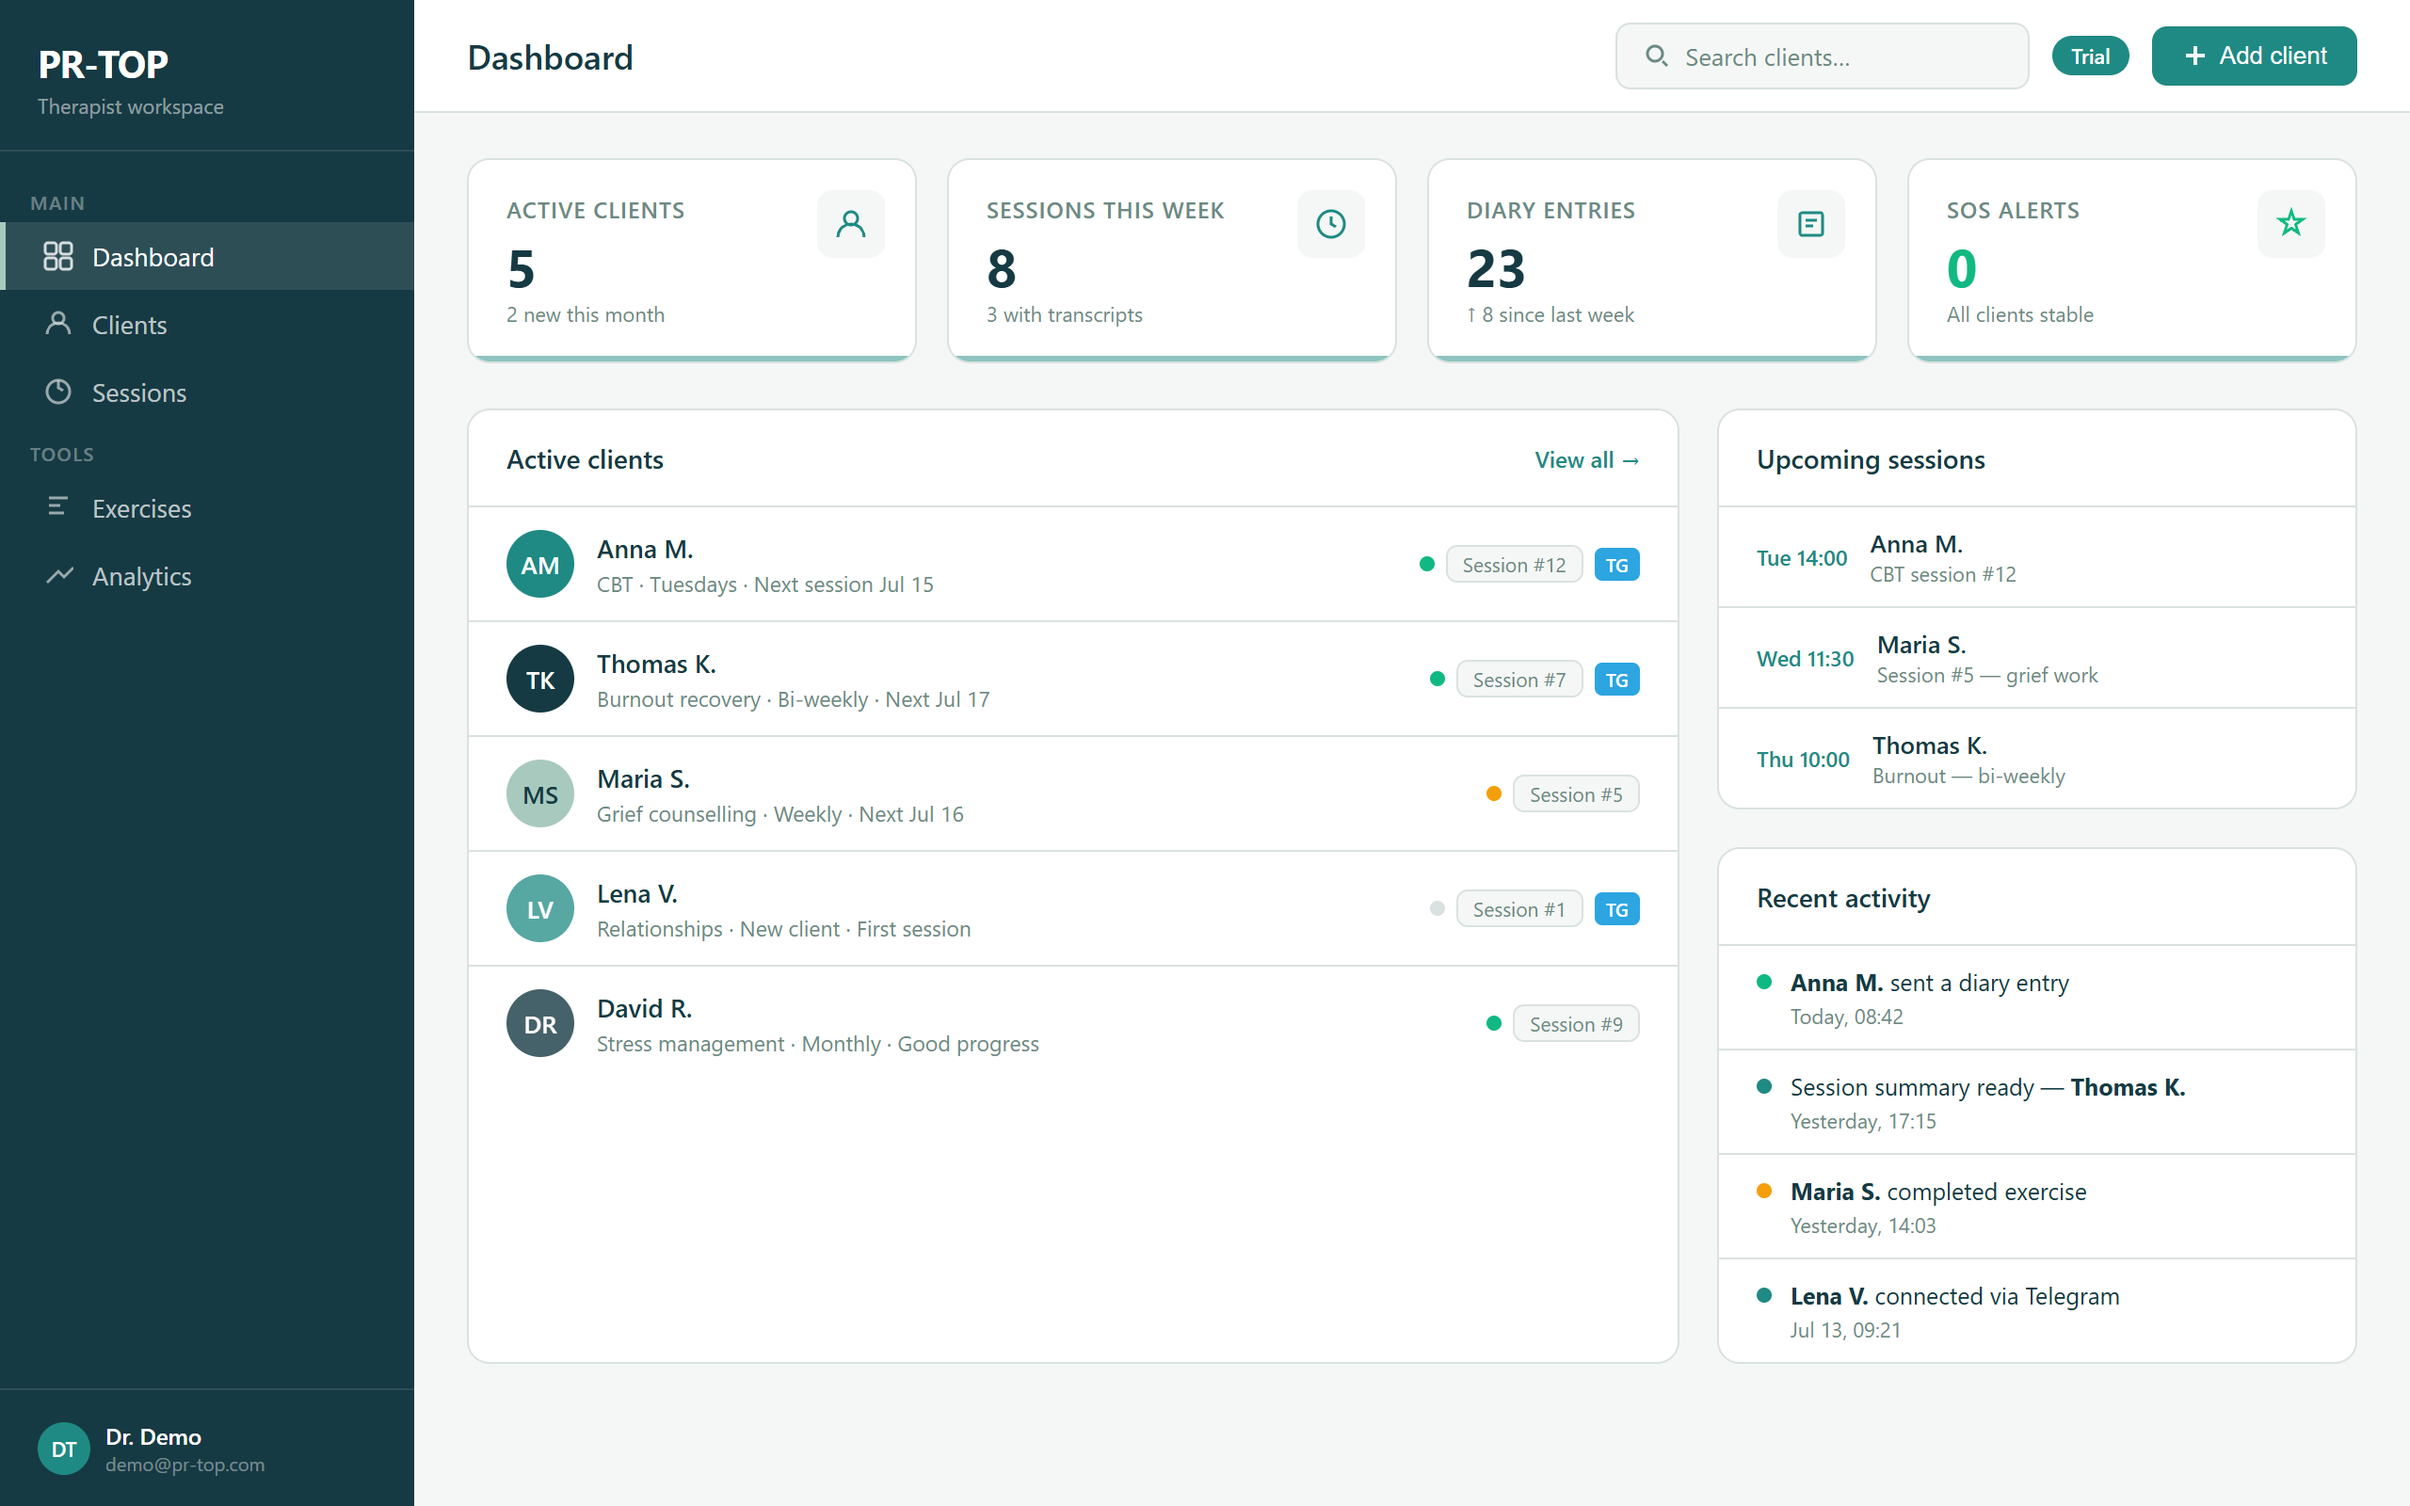
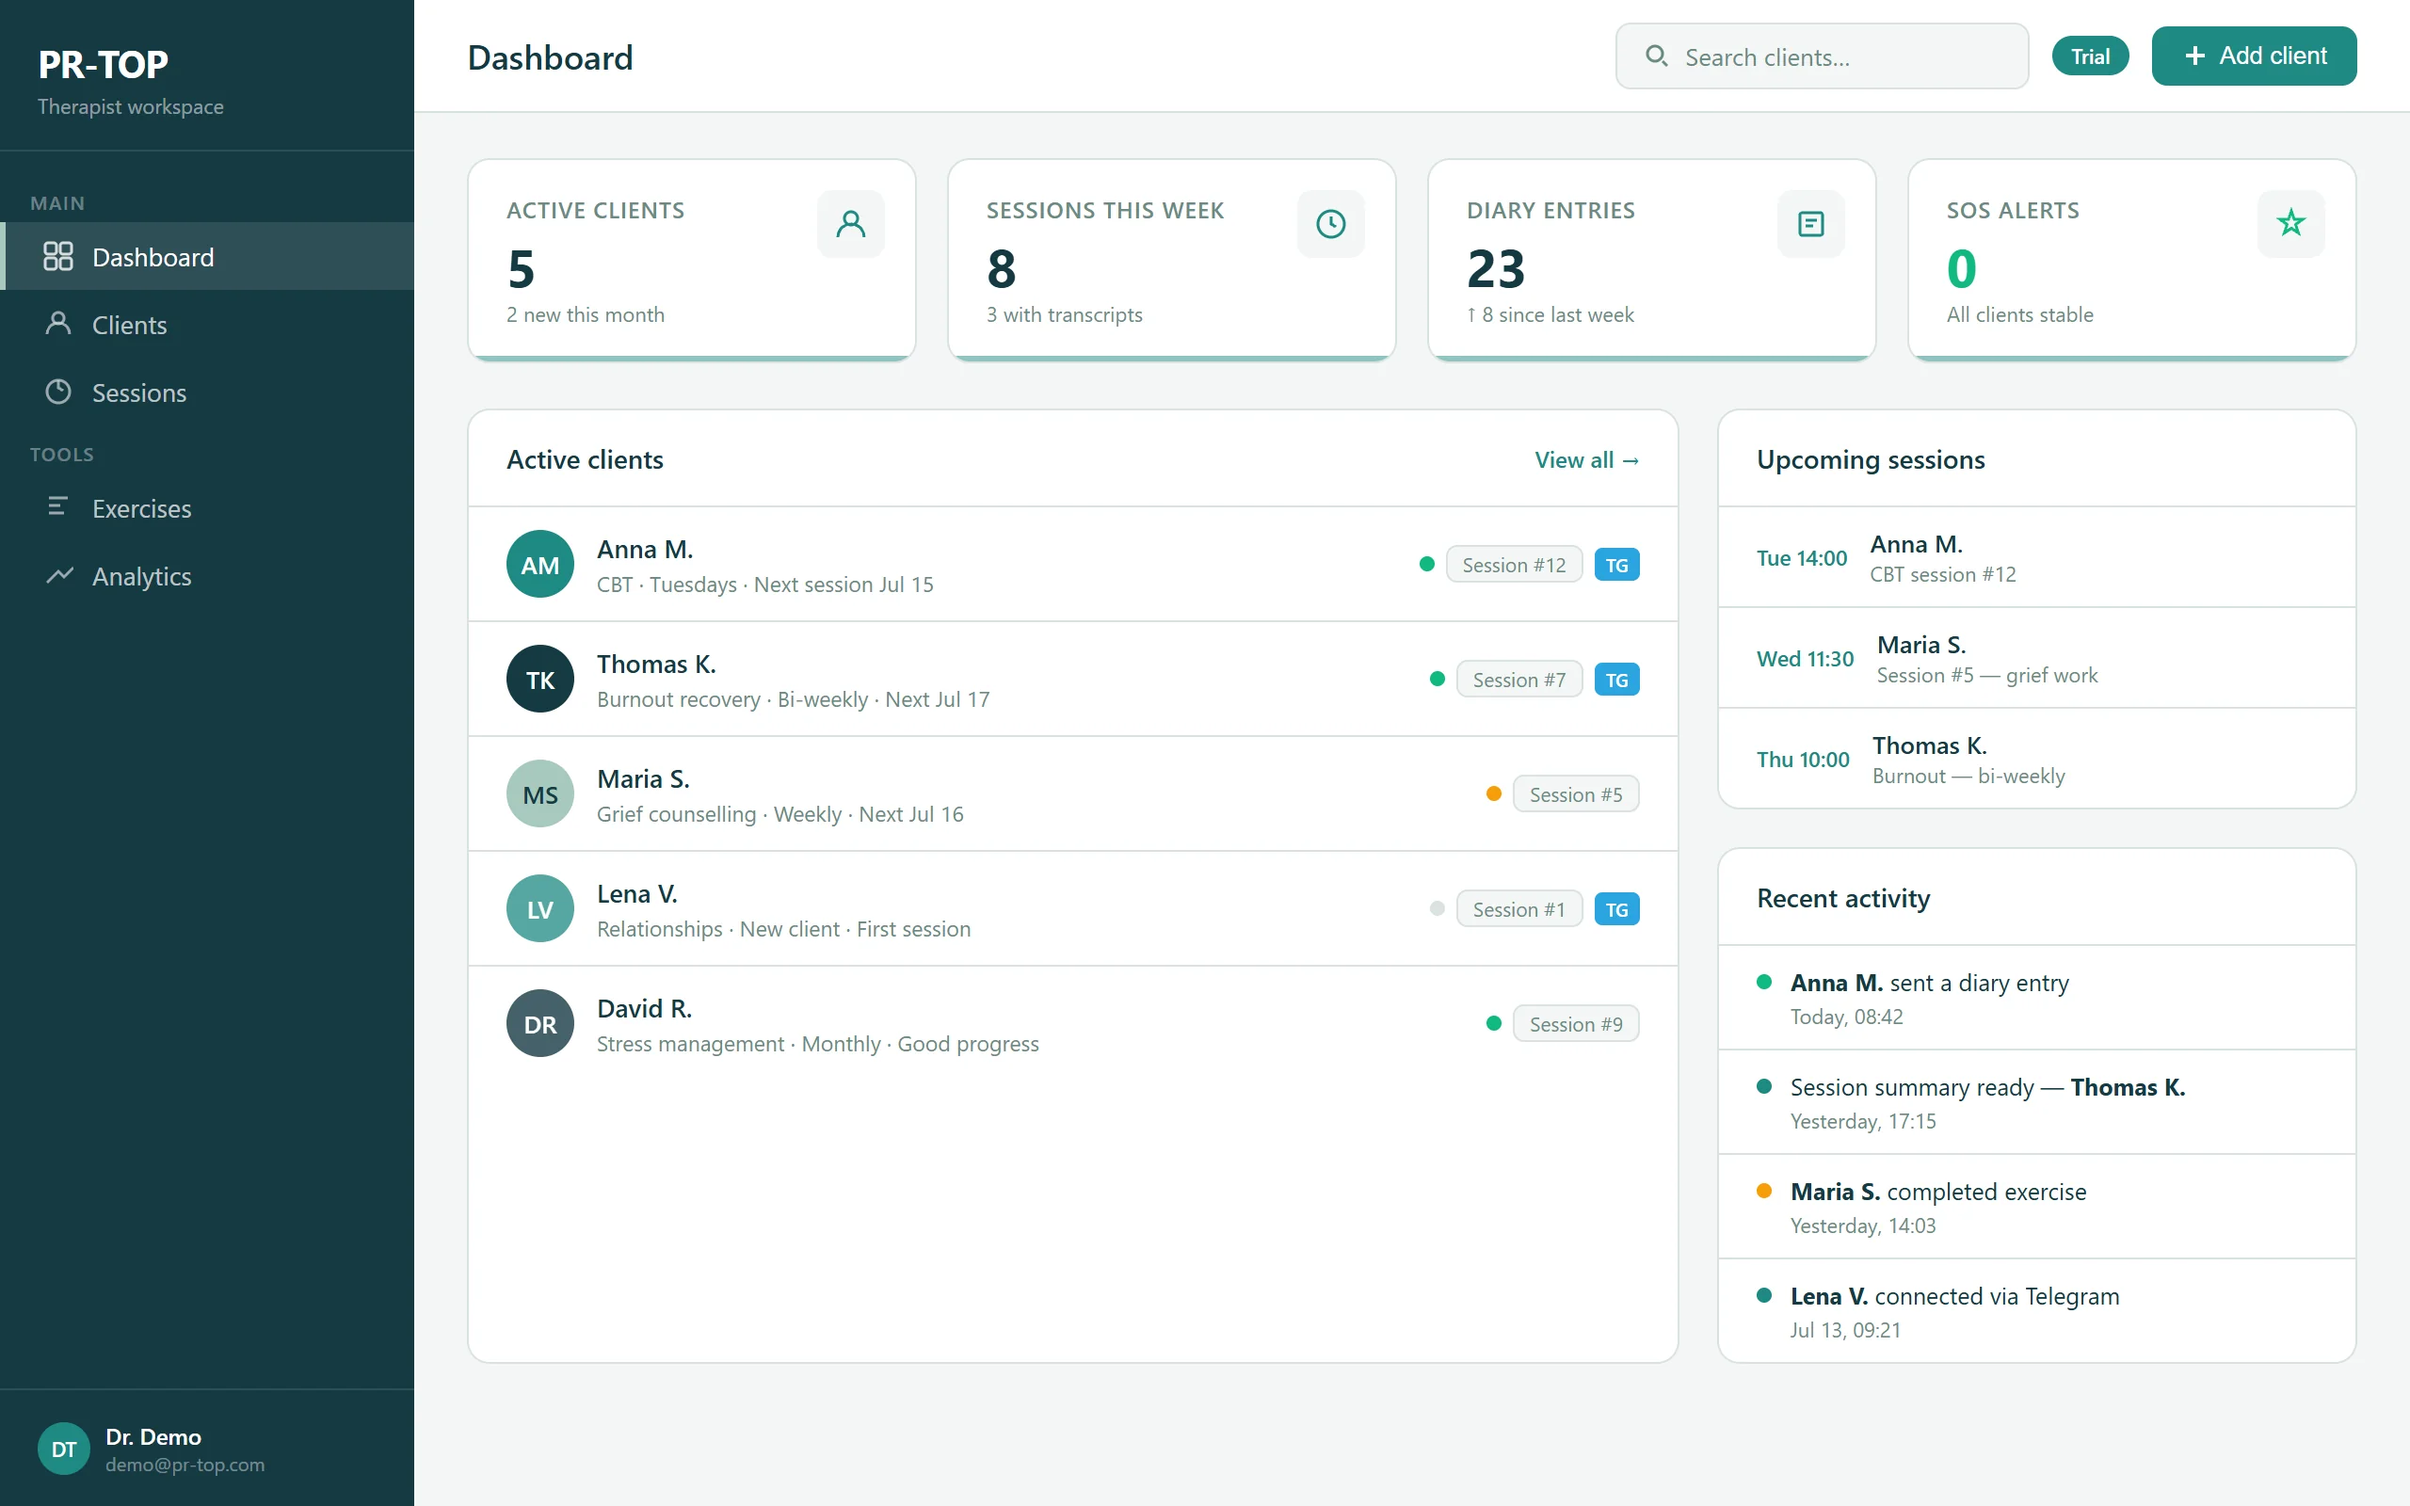
feat(R21c): convert hero-dashboard to real WebP 107 KB, remove PNG duplicate
- Converted hero-dashboard.png (PNG, 217 KB) to real WebP via sharp q85

- Result: 107 KB at 2560x1600 (well under 120 KB target)

- Magic bytes verified: RIFF....WEBP

- PNG duplicate deleted from public/images/ and git

- img src in Landing.jsx unchanged (/images/hero-dashboard.webp)

- All audits pass: KB=79/0, geo=18/0, seo=15/0, build=92 pages

- Marked feature #471 as passing

diff --git a/_t_r21c_webp_verify.js b/_t_r21c_webp_verify.js
@@ -1,0 +1,95 @@
+/**
+ * _t_r21c_webp_verify.js
+ * Verification for R21c: Real WebP for hero screenshot
+ *
+ * Checks:
+ * 1. hero-dashboard.webp exists and is ≤ 120 KB
+ * 2. Magic bytes are RIFF....WEBP (real WebP, not renamed PNG)
+ * 3. PNG duplicate does NOT exist in public/images/
+ * 4. <img> src in Landing.jsx is unchanged (/images/hero-dashboard.webp)
+ * 5. The file is referenced in built dist/index.html
+ */
+
+const fs   = require('fs');
+const path = require('path');
+
+const ROOT    = __dirname;
+const WEBP    = path.join(ROOT, 'src/frontend/public/images/hero-dashboard.webp');
+const PNG_DUP = path.join(ROOT, 'src/frontend/public/images/hero-dashboard.png');
+const LANDING = path.join(ROOT, 'src/frontend/src/pages/Landing.jsx');
+const DIST    = path.join(ROOT, 'src/frontend/dist/index.html');
+
+let pass = 0;
+let fail = 0;
+
+function ok(msg)  { pass++; process.stderr.write(`  PASS  ${msg}\n`); }
+function err(msg) { fail++; process.stderr.write(`  FAIL  ${msg}\n`); }
+
+// 1. WebP exists
+if (fs.existsSync(WEBP)) {
+  ok('hero-dashboard.webp exists');
+} else {
+  err('hero-dashboard.webp NOT found');
+  process.exit(1);
+}
+
+// 2. Size ≤ 120 KB
+const sizeBytes = fs.statSync(WEBP).size;
+const sizeKB    = Math.round(sizeBytes / 1024);
+if (sizeBytes <= 120 * 1024) {
+  ok(`hero-dashboard.webp size = ${sizeKB} KB (≤ 120 KB)`);
+} else {
+  err(`hero-dashboard.webp size = ${sizeKB} KB (exceeds 120 KB limit)`);
+}
+
+// 3. Magic bytes: RIFF at offset 0, WEBP at offset 8
+const buf  = Buffer.alloc(12);
+const fd   = fs.openSync(WEBP, 'r');
+fs.readSync(fd, buf, 0, 12, 0);
+fs.closeSync(fd);
+
+const riff = buf.slice(0, 4).toString('ascii');
+const webp = buf.slice(8, 12).toString('ascii');
+
+if (riff === 'RIFF' && webp === 'WEBP') {
+  ok(`Magic bytes: ${riff}....${webp} (real WebP)`);
+} else {
+  err(`Magic bytes WRONG: expected RIFF....WEBP, got ${riff}....${webp}`);
+}
+
+// 4. PNG duplicate does NOT exist
+if (!fs.existsSync(PNG_DUP)) {
+  ok('hero-dashboard.png (PNG duplicate) removed from public/images/');
+} else {
+  err('hero-dashboard.png PNG duplicate still exists in public/images/');
+}
+
+// 5. Landing.jsx src unchanged
+const landingContent = fs.readFileSync(LANDING, 'utf8');
+if (landingContent.includes('src="/images/hero-dashboard.webp"')) {
+  ok('<img> src="/images/hero-dashboard.webp" unchanged in Landing.jsx');
+} else {
+  err('<img> src for hero-dashboard.webp NOT found in Landing.jsx');
+}
+
+// 6. Dist index.html references the webp
+if (fs.existsSync(DIST)) {
+  const distContent = fs.readFileSync(DIST, 'utf8');
+  if (distContent.includes('/images/hero-dashboard.webp')) {
+    ok('dist/index.html references /images/hero-dashboard.webp');
+  } else {
+    err('dist/index.html does NOT reference /images/hero-dashboard.webp');
+  }
+} else {
+  err('dist/index.html not found — run build first');
+}
+
+// Summary
+process.stderr.write('\n');
+process.stderr.write('============================================================\n');
+process.stderr.write(`R21c WEBP VERIFY: ${pass} passed, ${fail} failed\n`);
+process.stderr.write('============================================================\n');
+
+if (fail > 0) {
+  process.exit(1);
+}

diff --git a/_r21c_convert_webp.js b/_r21c_convert_webp.js
@@ -1,0 +1,95 @@
+/**
+ * R21c: Convert hero-dashboard.png → real WebP
+ * - Quality 85, lossless=false
+ * - Target ≤ 120 KB
+ * - Falls back to 1920×1200 downscale if > 120 KB at full resolution
+ * - Deletes PNG duplicate when done
+ * - Verifies magic bytes (RIFF...WEBP)
+ */
+
+const path = require('path');
+const fs = require('fs');
+
+// Use sharp from frontend node_modules
+const sharp = require(path.join(__dirname, 'src/frontend/node_modules/sharp'));
+
+const INPUT_PNG   = path.join(__dirname, 'src/frontend/public/images/hero-dashboard.png');
+const OUTPUT_WEBP = path.join(__dirname, 'src/frontend/public/images/hero-dashboard.webp');
+const MAX_BYTES   = 120 * 1024; // 120 KB
+
+async function convert() {
+  // Get original dimensions
+  const meta = await sharp(INPUT_PNG).metadata();
+  console.error(`Input: ${meta.width}x${meta.height} PNG, ${fs.statSync(INPUT_PNG).size} bytes`);
+
+  // Try quality 85 at original size
+  let buf = await sharp(INPUT_PNG)
+    .webp({ quality: 85, effort: 6 })
+    .toBuffer();
+
+  console.error(`Quality 85 full res: ${buf.length} bytes`);
+
+  if (buf.length > MAX_BYTES) {
+    // Try downscale to 1920×1200 with quality 85
+    buf = await sharp(INPUT_PNG)
+      .resize({ width: 1920, height: 1200, fit: 'inside', withoutEnlargement: true })
+      .webp({ quality: 85, effort: 6 })
+      .toBuffer();
+    console.error(`Quality 85 @ 1920×1200: ${buf.length} bytes`);
+  }
+
+  if (buf.length > MAX_BYTES) {
+    // Further reduce quality
+    for (let q = 80; q >= 60 && buf.length > MAX_BYTES; q -= 5) {
+      buf = await sharp(INPUT_PNG)
+        .resize({ width: 1920, height: 1200, fit: 'inside', withoutEnlargement: true })
+        .webp({ quality: q, effort: 6 })
+        .toBuffer();
+      console.error(`Quality ${q} @ 1920×1200: ${buf.length} bytes`);
+    }
+  }
+
+  // Write real WebP
+  fs.writeFileSync(OUTPUT_WEBP, buf);
+  console.error(`Written: ${OUTPUT_WEBP} (${buf.length} bytes)`);
+
+  // Verify magic bytes: starts with RIFF and has WEBP at offset 8
+  const magic = Buffer.alloc(12);
+  const fd = fs.openSync(OUTPUT_WEBP, 'r');
+  fs.readSync(fd, magic, 0, 12, 0);
+  fs.closeSync(fd);
+
+  const riff = magic.slice(0, 4).toString('ascii');
+  const webp = magic.slice(8, 12).toString('ascii');
+
+  if (riff !== 'RIFF' || webp !== 'WEBP') {
+    throw new Error(`Magic bytes check FAILED: got ${riff}...${webp}`);
+  }
+  console.error(`Magic bytes OK: ${riff}....${webp}`);
+
+  // Delete PNG duplicate
+  if (fs.existsSync(INPUT_PNG)) {
+    fs.unlinkSync(INPUT_PNG);
+    console.error(`Deleted PNG duplicate: ${INPUT_PNG}`);
+  }
+
+  // Final size check
+  const finalSize = fs.statSync(OUTPUT_WEBP).size;
+  if (finalSize > MAX_BYTES) {
+    throw new Error(`Final size ${finalSize} bytes exceeds limit of ${MAX_BYTES} bytes (120 KB)`);
+  }
+
+  // Report results
+  process.stdout.write(JSON.stringify({
+    ok: true,
+    outputPath: OUTPUT_WEBP,
+    sizeBytes: finalSize,
+    sizeKB: Math.round(finalSize / 1024),
+    magicBytes: `${riff}....${webp}`,
+  }) + '\n');
+}
+
+convert().catch(err => {
+  process.stderr.write('ERROR: ' + err.message + '\n');
+  process.exit(1);
+});
